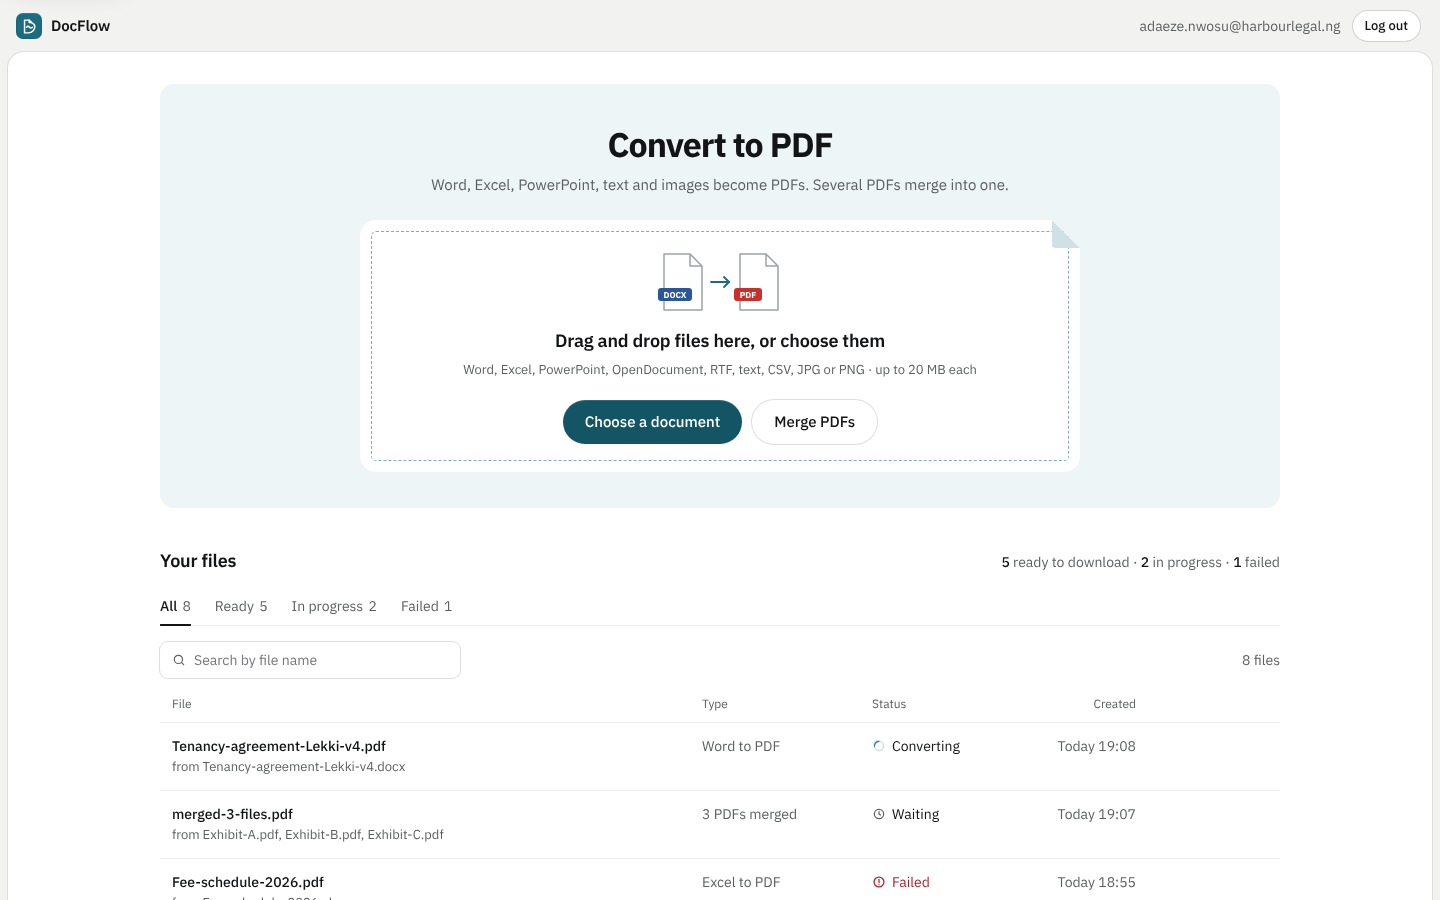
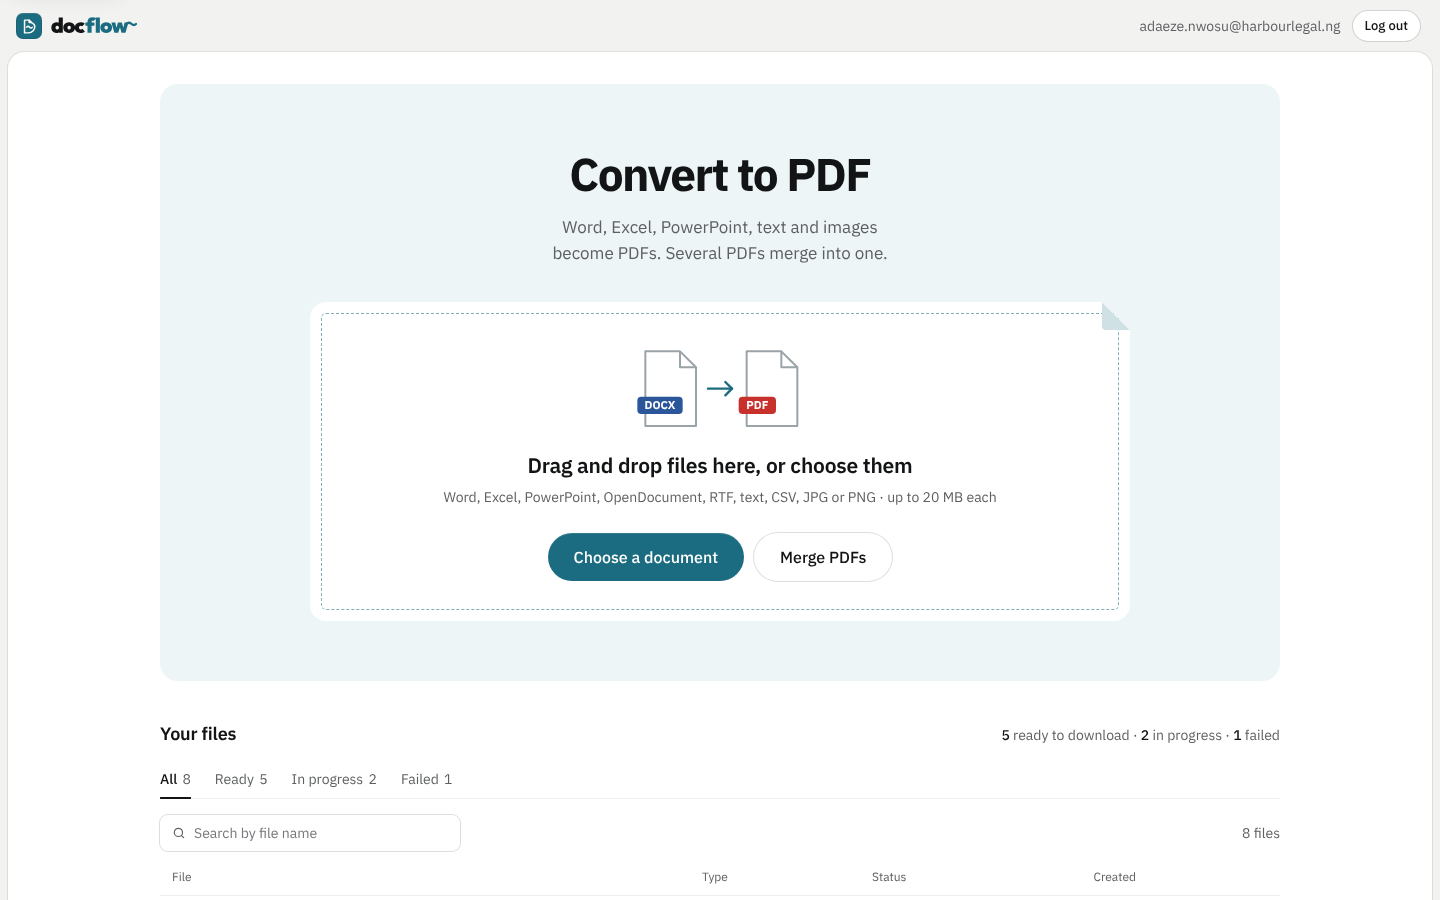
Keep file names in every script; docflow wordmark; larger hero
File names
- Names keep letters from any script (Yoruba tone marks, Hausa hooked
  letters, Chinese, ...). Before, everything outside A-Z became "_", so
  "Ọ̀rọ̀-ìpàdé.docx" was saved as "__r__-_p_d_.docx".
- Still removed: folder parts (including Windows paths), control
  characters and unsafe punctuation. Long names keep their extension.
- Storage keys no longer contain the name (inputs/<user>/<job>/0.docx),
  and Gotenberg receives a plain name, so only the database holds it.
- Downloads send RFC 6266/5987 headers (filename*=UTF-8''...) with a
  readable ASCII fallback, on the local server and in S3 presigned links.
- New app/filenames.py with tests for Yoruba, Hausa, Chinese, traversal,
  Windows paths, control characters and long names.

Design
- Lowercase "docflow" wordmark (Outfit, SIL OFL 1.1): "doc" in ink,
  "flow" in teal, the last stroke of the w running out as a wave.
- Larger hero: 46px headline, wider upload card, bigger illustration
  and buttons.

diff --git a/app/static/style.css b/app/static/style.css
@@ -76,8 +76,8 @@ button { -webkit-user-select: none; user-select: none; }
 .frame-bar { height: 52px; flex: none; display: flex; align-items: center; justify-content: space-between; gap: 16px;
   padding: env(safe-area-inset-top, 0px) max(20px, env(safe-area-inset-right, 0px)) 0 max(16px, env(safe-area-inset-left, 0px));
   box-sizing: content-box; }
-.brand { display: inline-flex; align-items: center; gap: 9px; color: var(--text); text-decoration: none;
-  font-size: 15px; font-weight: 600; letter-spacing: -0.01em; }
+.brand { display: inline-flex; align-items: center; gap: 9px; color: var(--text); text-decoration: none; }
+.wordmark { height: 21px; width: auto; display: block; margin-top: 1px; }  /* lowercase docflow: the w runs out as water */
 .mark { width: 26px; height: 26px; border-radius: 7px; background: var(--accent); color: #fff;
   display: inline-flex; align-items: center; justify-content: center;
   box-shadow: inset 0 1px 0 rgba(255, 255, 255, 0.14), inset 0 0 0 1px rgba(0, 0, 0, 0.08); }
@@ -106,7 +106,7 @@ h2 { font-size: 16px; line-height: 24px; font-weight: 600; letter-spacing: -0.01
 .btn-secondary { background: var(--surface); color: var(--text); box-shadow: var(--ring-strong); }  /* a ring, not a border */
 .btn-ghost { background: transparent; color: var(--text); }
 .btn-sm { height: 30px; padding: 0 12px; font-size: 13px; }
-.btn-lg { height: 44px; padding: 0 22px; font-size: 15px; }
+.btn-lg { height: 48px; padding: 0 26px; font-size: 16px; }
 .btn-block { width: 100%; height: 42px; }
 .btn-label { display: inline-flex; align-items: center; gap: 8px; transition: filter 200ms ease, opacity 200ms ease; }
 .btn-label.swapping { filter: blur(2px); opacity: 0.6; }
@@ -118,12 +118,12 @@ h2 { font-size: 16px; line-height: 24px; font-weight: 600; letter-spacing: -0.01
 }
 
 /* ---------- the tool: the page's one job, given the room ---------- */
-.tool { padding: 40px 24px 36px; border-radius: 14px; background: var(--tint); text-align: center; }
-.tool h1 { font-size: 34px; line-height: 40px; font-weight: 700; letter-spacing: -0.03em; text-wrap: balance; }
-.tool-lede { margin: 10px auto 0; max-width: 66ch; color: var(--muted); font-size: 15px; line-height: 22px; text-wrap: pretty; }
+.tool { padding: 64px 24px 60px; border-radius: 18px; background: var(--tint); text-align: center; }
+.tool h1 { font-size: 46px; line-height: 52px; font-weight: 700; letter-spacing: -0.035em; text-wrap: balance; }
+.tool-lede { margin: 14px auto 0; max-width: 60ch; color: var(--muted); font-size: 17px; line-height: 26px; text-wrap: balance; }
 
 /* The upload card is a sheet of paper with its corner folded, like the DocFlow mark. */
-.upload-card { position: relative; max-width: 720px; margin: 24px auto 0; padding: 30px 32px 28px; background: var(--surface);
+.upload-card { position: relative; max-width: 820px; margin: 36px auto 0; padding: 44px 40px 40px; background: var(--surface);
   border-radius: 16px; cursor: pointer;
   clip-path: polygon(0 0, calc(100% - 28px) 0, 100% 28px, 100% 100%, 0 100%);
   outline: 1.5px dashed rgba(27, 108, 128, 0.3); outline-offset: -12px;
@@ -131,21 +131,22 @@ h2 { font-size: 16px; line-height: 24px; font-weight: 600; letter-spacing: -0.01
 .fold { position: absolute; top: 0; right: 0; width: 28px; height: 28px; background: #cfe1e5;
   clip-path: polygon(0 0, 0 100%, 100% 100%); border-bottom-left-radius: 4px; }
 .upload-art { display: flex; justify-content: center; }
-.upload-title { margin-top: 14px; font-size: 18px; line-height: 26px; font-weight: 600; letter-spacing: -0.01em; }
+.upload-art svg { width: 176px; height: auto; }
+.upload-title { margin-top: 20px; font-size: 21px; line-height: 28px; font-weight: 600; letter-spacing: -0.01em; }
 .for-touch { display: none; }
-.upload-limit { margin-top: 6px; color: var(--muted); font-size: 13px; line-height: 20px; }
-.upload-actions { margin-top: 20px; display: flex; gap: 10px; justify-content: center; flex-wrap: wrap; }
+.upload-limit { margin-top: 8px; color: var(--muted); font-size: 14px; line-height: 20px; }
+.upload-actions { margin-top: 26px; display: flex; gap: 10px; justify-content: center; flex-wrap: wrap; }
 body.dragging .upload-card { transform: scale(1.012); background: #f8fcfc; outline-color: rgba(27, 108, 128, 0.85); outline-style: solid; }
 @media (hover: hover) and (pointer: fine) { .upload-card:hover { outline-color: rgba(27, 108, 128, 0.55); } }
 
 /* ---------- no-JS forms ---------- */
-.fallback { margin: 24px auto 0; max-width: 720px; text-align: left; display: grid; grid-template-columns: repeat(2, minmax(0, 1fr)); gap: 24px; }
+.fallback { margin: 28px auto 0; max-width: 820px; text-align: left; display: grid; grid-template-columns: repeat(2, minmax(0, 1fr)); gap: 24px; }
 .fallback form { display: flex; flex-direction: column; gap: 8px; align-items: flex-start; }
 .fallback label { font-weight: 500; }
 .field-hint { color: var(--muted); font-size: 13px; line-height: 18px; }
 
 /* ---------- merge order ---------- */
-.merge { max-width: 720px; margin: 20px auto 0; text-align: left; padding: 20px; border-radius: var(--radius); background: var(--surface);
+.merge { max-width: 820px; margin: 20px auto 0; text-align: left; padding: 20px; border-radius: var(--radius); background: var(--surface);
   box-shadow: var(--ring), var(--float);
   transition: opacity 200ms var(--ease-out), transform 200ms var(--ease-out); }
 @starting-style { .merge { opacity: 0; transform: translateY(-4px) scale(0.99); } }
@@ -301,9 +302,11 @@ body.dragging .upload-card { transform: scale(1.012); background: #f8fcfc; outli
 @media (max-width: 640px) {
   .account-email { display: none; }
   .sheet { margin: 0; border-radius: 0; box-shadow: none; padding: 20px 16px calc(40px + env(safe-area-inset-bottom, 0px)); }
-  .tool { padding: 32px 12px 20px; margin: -4px -4px 0; }
-  .tool h1 { font-size: 28px; line-height: 34px; }
-  .upload-card { padding: 28px 18px 22px; margin-top: 22px; }
+  .tool { padding: 40px 12px 24px; margin: -4px -4px 0; }
+  .tool h1 { font-size: 34px; line-height: 40px; }
+  .tool-lede { font-size: 16px; line-height: 24px; }
+  .upload-art svg { width: 150px; }
+  .upload-card { padding: 32px 18px 24px; margin-top: 26px; }
   .upload-title { font-size: 17px; }
   .upload-actions { flex-direction: column; }
   .upload-actions .btn { width: 100%; }

diff --git a/app/templates/base.html b/app/templates/base.html
@@ -15,11 +15,11 @@
 <body>
   <a class="skip" href="#main">Skip to content</a>
   <header class="frame-bar">
-    <a class="brand" href="/">
+    <a class="brand" href="/" aria-label="DocFlow home">
       <span class="mark" aria-hidden="true">
         <svg viewBox="0 0 24 24" width="17" height="17" fill="none" stroke="currentColor" stroke-width="2.1" stroke-linecap="round" stroke-linejoin="round"><path d="M5 3h6.5L15 6.5c2.8 1.4 4.5 3.4 4.5 5.5 0 5-4 9-9 9H5z"/><path d="M11.5 3v3.5H15"/><path d="M8 13c1.3-1.6 2.7-1.6 4 0s2.7 1.6 4 0"/></svg>
       </span>
-      {{ app_name }}
+      <svg class="wordmark" viewBox="0 0 410.9 100" aria-hidden="true" focusable="false"><path d="M26 81L26 81Q18.70 81 13.25 77.70Q7.80 74.40 4.75 68.65Q1.70 62.90 1.70 55.40Q1.70 47.90 4.75 42.10Q7.80 36.30 13.25 33.05Q18.70 29.80 26 29.80L26 29.80Q30.40 29.80 34.30 31.20L34.30 31.20Q35.60 31.70 36.70 32.30L36.70 32.30L36.70 6.80L56.30 6.80L56.30 80L37.20 80L37.20 77.80Q35.80 78.60 34.30 79.30L34.30 79.30Q30.40 81 26 81ZM29.60 63.80L29.60 63.80Q32.10 63.80 33.90 62.75Q35.70 61.70 36.75 59.80Q37.80 57.90 37.80 55.40Q37.80 52.90 36.80 51.05Q35.80 49.20 33.95 48.10Q32.10 47 29.70 47Q27.30 47 25.45 48.10Q23.60 49.20 22.50 51.10Q21.40 53 21.40 55.40Q21.40 57.80 22.45 59.70Q23.50 61.60 25.40 62.70Q27.30 63.80 29.60 63.80ZM86.50 81.20L86.50 81.20Q78.40 81.20 72.05 77.85Q65.70 74.50 62.05 68.60Q58.40 62.70 58.40 55.30L58.40 55.30Q58.40 47.90 62 42.10Q65.60 36.30 71.95 32.95Q78.30 29.60 86.40 29.60L86.40 29.60Q94.50 29.60 100.80 32.95Q107.10 36.30 110.75 42.10Q114.40 47.90 114.40 55.30L114.40 55.30Q114.40 62.70 110.80 68.60Q107.20 74.50 100.90 77.85Q94.60 81.20 86.50 81.20ZM86.40 64L86.40 64Q88.90 64 90.75 62.95Q92.60 61.90 93.60 59.95Q94.60 58 94.60 55.40L94.60 55.40Q94.60 52.80 93.55 50.85Q92.50 48.90 90.70 47.85Q88.90 46.80 86.40 46.80L86.40 46.80Q84 46.80 82.15 47.90Q80.30 49 79.25 50.95Q78.20 52.90 78.20 55.50L78.20 55.50Q78.20 58 79.25 59.95Q80.30 61.90 82.15 62.95Q84 64 86.40 64ZM141.40 81.20L141.40 81.20Q133.40 81.20 127.00 77.90Q120.60 74.60 116.90 68.75Q113.20 62.90 113.20 55.50L113.20 55.50Q113.20 48 116.95 42.15Q120.70 36.30 127.15 32.95Q133.60 29.60 141.70 29.60L141.70 29.60Q147.50 29.60 152.15 31.40Q156.80 33.20 160.80 36.90L160.80 36.90L148.50 49.20Q147.20 48 145.60 47.40Q144 46.80 141.70 46.80L141.70 46.80Q139.30 46.80 137.35 47.85Q135.40 48.90 134.20 50.80Q133 52.70 133 55.30L133 55.30Q133 57.90 134.20 59.85Q135.40 61.80 137.40 62.90Q139.40 64 141.70 64L141.70 64Q144.30 64 146 63.20Q147.70 62.40 149 61L149 61L161.30 73.30Q157 77.30 152.30 79.25Q147.60 81.20 141.40 81.20Z" fill="#131416"/><path d="M193.40 80L173.80 80L173.80 46.80L163.80 46.80L163.80 30.80L173.80 30.80L173.80 28.80Q173.80 22.40 176.60 17.15Q179.40 11.90 184.70 8.75Q190 5.60 197.50 5.60L197.50 5.60Q203.10 5.60 207.45 7.40Q211.80 9.20 214.70 12.20L214.70 12.20L202.60 24.30Q201.90 23.50 200.80 23.15Q199.70 22.80 198.50 22.80L198.50 22.80Q196.20 22.80 194.80 24.20Q193.40 25.60 193.40 27.90L193.40 27.90L193.40 30.80L206.90 30.80L206.90 46.80L193.40 46.80L193.40 80ZM232.80 80L213.20 80L213.20 6.80L232.80 6.80L232.80 80ZM263 81.20L263 81.20Q254.90 81.20 248.55 77.85Q242.20 74.50 238.55 68.60Q234.90 62.70 234.90 55.30L234.90 55.30Q234.90 47.90 238.50 42.10Q242.10 36.30 248.45 32.95Q254.80 29.60 262.90 29.60L262.90 29.60Q271 29.60 277.30 32.95Q283.60 36.30 287.25 42.10Q290.90 47.90 290.90 55.30L290.90 55.30Q290.90 62.70 287.30 68.60Q283.70 74.50 277.40 77.85Q271.10 81.20 263 81.20ZM262.90 64L262.90 64Q265.40 64 267.25 62.95Q269.10 61.90 270.10 59.95Q271.10 58 271.10 55.40L271.10 55.40Q271.10 52.80 270.05 50.85Q269 48.90 267.20 47.85Q265.40 46.80 262.90 46.80L262.90 46.80Q260.50 46.80 258.65 47.90Q256.80 49 255.75 50.95Q254.70 52.90 254.70 55.50L254.70 55.50Q254.70 58 255.75 59.95Q256.80 61.90 258.65 62.95Q260.50 64 262.90 64ZM320.40 80L301.90 80L287.60 30.80L306.20 30.80L311.70 55.80L318.90 30.80L337.40 30.80L344.60 55.80L350.30 30.80L368.90 30.80L354.60 80L335.90 80L328.30 53L320.40 80Z" fill="#1b6c80"/><path d="M362.9 34.8 C370.55 30.3 376.25 30.3 383.9 37.8 C391.55 45.3 397.25 45.3 404.9 37.8" fill="none" stroke="#1b6c80" stroke-width="10.82" stroke-linecap="round"/></svg>
     </a>
     {% if user %}
       <div class="account">

diff --git a/app/filenames.py b/app/filenames.py
@@ -1,0 +1,51 @@
+"""File names people give their files, kept as they wrote them.
+
+Names keep letters from every script (Yoruba tone marks, Igbo dots, Hausa
+hooks, Arabic, Chinese...). Only what is unsafe is removed: folders in the
+name ("../"), control characters and the characters that break file systems
+or HTTP headers. Storage keys never contain the name, so S3 and the disk only
+ever see plain ASCII paths.
+"""
+import re
+import unicodedata
+from urllib.parse import quote
+
+MAX_NAME_CHARS = 150
+_KEEP_PUNCTUATION = set(" ._-()[]&+,'")
+
+
+def safe_filename(name: str | None) -> str:
+    name = unicodedata.normalize("NFC", name or "")
+    name = name.replace("\\", "/").rsplit("/", 1)[-1]  # drop any folder part, Windows or POSIX
+    cleaned = "".join(
+        ch if ch.isalnum() or unicodedata.category(ch).startswith("M") or ch in _KEEP_PUNCTUATION else "_"
+        for ch in name
+    )
+    cleaned = re.sub(r"\s+", " ", cleaned).strip(" .") or "file"
+    if len(cleaned) > MAX_NAME_CHARS:  # shorten the stem, keep the extension
+        stem, dot, ext = cleaned.rpartition(".")
+        if dot and 0 < len(ext) <= 10:
+            cleaned = stem[: MAX_NAME_CHARS - len(ext) - 1].rstrip(" .") + "." + ext
+        else:
+            cleaned = cleaned[:MAX_NAME_CHARS]
+    return cleaned
+
+
+def ascii_fallback(name: str, default: str = "document.pdf") -> str:
+    """For old clients that ignore filename*: accents dropped, other scripts replaced."""
+    def to_ascii(text: str) -> str:
+        plain = unicodedata.normalize("NFKD", text).encode("ascii", "ignore").decode()
+        return re.sub(r"[^A-Za-z0-9._ ()-]", "_", plain)
+
+    stem, dot, ext = name.rpartition(".")
+    if not dot:
+        stem, ext = name, ""
+    stem, ext = to_ascii(stem).strip(" ._-"), to_ascii(ext).strip(" ._-")
+    if not re.search(r"[A-Za-z0-9]", stem):
+        return default
+    return f"{stem}.{ext}" if ext else stem
+
+
+def content_disposition(name: str) -> str:
+    """attachment header that keeps a non-English name (RFC 6266 / RFC 5987)."""
+    return f"attachment; filename=\"{ascii_fallback(name)}\"; filename*=UTF-8''{quote(name, safe='')}"

diff --git a/app/main.py b/app/main.py
@@ -14,6 +14,7 @@ from starlette.middleware.sessions import SessionMiddleware
 from .auth import MIN_PASSWORD_LEN, hash_password, password_problem, verify_password
 from .config import settings
 from .db import db_is_healthy, get_db, init_db
+from .filenames import content_disposition, safe_filename
 from .gotenberg import CONVERTIBLE_EXTENSIONS
 from .models import Job, User
 from .storage import get_storage
@@ -101,12 +102,6 @@ def job_status_label(job: Job) -> str:
 
 
 templates.env.globals.update(job_kind=job_kind, job_status_label=job_status_label)
-
-
-def safe_filename(name: str) -> str:
-    name = Path(name or "file").name
-    name = re.sub(r"[^A-Za-z0-9._ -]", "_", name).strip() or "file"
-    return name[:150]
 
 
 def extension(name: str) -> str:
@@ -246,7 +241,7 @@ async def convert(request: Request, file: UploadFile = File(...), db: Session = 
     job = Job(user_id=user.id, kind="convert", input_names=[name], output_name=f"{name.rsplit('.', 1)[0]}.pdf")
     db.add(job)
     db.flush()  # assigns job.id
-    key = f"inputs/{user.id}/{job.id}/0_{name}"
+    key = f"inputs/{user.id}/{job.id}/0.{extension(name)}"  # the name lives in the database, not the path
     get_storage().save(key, data)
     job.input_keys = [key]
     db.commit()
@@ -289,7 +284,7 @@ async def merge(request: Request, files: list[UploadFile] = File(...), db: Sessi
     storage = get_storage()
     keys = []
     for i, (name, data) in enumerate(zip(names, blobs)):
-        key = f"inputs/{user.id}/{job.id}/{i}_{name}"
+        key = f"inputs/{user.id}/{job.id}/{i}.pdf"
         storage.save(key, data)
         keys.append(key)
     job.input_keys = keys
@@ -324,7 +319,7 @@ def download(job_id: str, user: User = Depends(require_user), db: Session = Depe
     return Response(
         storage.read(job.output_key),
         media_type="application/pdf",
-        headers={"Content-Disposition": f'attachment; filename="{filename}"'},
+        headers={"Content-Disposition": content_disposition(filename)},
     )
 
 

diff --git a/tests/test_app.py b/tests/test_app.py
@@ -124,3 +124,41 @@ def test_dashboard_names_the_screen_and_uses_plain_status_words(client):
     assert "Text to PDF" in r.text
     assert ">Ready<" in r.text
     assert 'data-job="' in r.text
+
+
+# ---------- file names from every script ----------
+
+def test_non_latin_names_are_kept(logged_in):
+    from urllib.parse import quote
+
+    name = "Ọ̀rọ̀-ìpàdé-ọjọ́-Ajé 2026.docx"
+    logged_in.post("/convert", files={"file": (name, b"hello")})
+    job = latest_job()
+    assert job.input_names == [__import__("unicodedata").normalize("NFC", name)]
+    assert job.output_name.endswith("Ajé 2026.pdf")
+    assert job.input_keys[0].endswith("/0.docx")  # storage path stays plain ASCII
+    assert job.input_keys[0].isascii()
+
+    r = logged_in.get(f"/jobs/{job.id}/download")
+    header = r.headers["content-disposition"]
+    assert "filename*=UTF-8''" + quote(job.output_name, safe="") in header
+    assert 'filename="Oro-ipade-ojo-Aje 2026.pdf"' in header  # readable fallback for old clients
+
+
+def test_safe_filename_cases():
+    from app.filenames import safe_filename
+
+    assert safe_filename("../../etc/passwd.txt") == "passwd.txt"
+    assert safe_filename("C:\\Users\\Ngozi\\Desktop\\Kwangilar ƙasa.docx") == "Kwangilar ƙasa.docx"
+    assert safe_filename("合同-最终版.pdf") == "合同-最终版.pdf"
+    assert safe_filename("bad\x00name\n.txt") == "bad_name_.txt"
+    assert safe_filename("  ") == "file"
+    long = safe_filename("A" * 300 + ".pptx")
+    assert len(long) == 150 and long.endswith(".pptx")
+
+
+def test_ascii_fallback_never_empty():
+    from app.filenames import ascii_fallback
+
+    assert ascii_fallback("合同.pdf") == "document.pdf"
+    assert ascii_fallback("Café menu.pdf") == "Cafe menu.pdf"

diff --git a/app/gotenberg.py b/app/gotenberg.py
@@ -15,9 +15,11 @@ TIMEOUT = httpx.Timeout(120.0, connect=5.0)
 
 def convert_to_pdf(filename: str, data: bytes) -> bytes:
     """Office document or image -> PDF via LibreOffice."""
+    # LibreOffice only needs the extension; a plain name avoids encoding surprises.
+    ext = filename.rsplit(".", 1)[-1].lower() if "." in filename else "bin"
     resp = httpx.post(
         f"{settings.gotenberg_url}/forms/libreoffice/convert",
-        files={"files": (filename, data)},
+        files={"files": (f"document.{ext}", data)},
         timeout=TIMEOUT,
     )
     resp.raise_for_status()
@@ -29,7 +31,7 @@ def merge_pdfs(files: list[tuple[str, bytes]]) -> bytes:
 
     Gotenberg merges in alphanumeric filename order, so we prefix an index.
     """
-    payload = [("files", (f"{i:03d}_{name}", data)) for i, (name, data) in enumerate(files)]
+    payload = [("files", (f"{i:03d}.pdf", data)) for i, (_name, data) in enumerate(files)]
     resp = httpx.post(
         f"{settings.gotenberg_url}/forms/pdfengines/merge",
         files=payload,

diff --git a/app/storage.py b/app/storage.py
@@ -13,6 +13,7 @@ from functools import lru_cache
 from pathlib import Path
 
 from .config import settings
+from .filenames import content_disposition
 
 
 class LocalStorage:
@@ -88,7 +89,7 @@ class S3Storage:
             Params={
                 "Bucket": self.bucket,
                 "Key": key,
-                "ResponseContentDisposition": f'attachment; filename="{filename}"',
+                "ResponseContentDisposition": content_disposition(filename),
                 "ResponseContentType": "application/pdf",
             },
             ExpiresIn=self.url_expiry,
